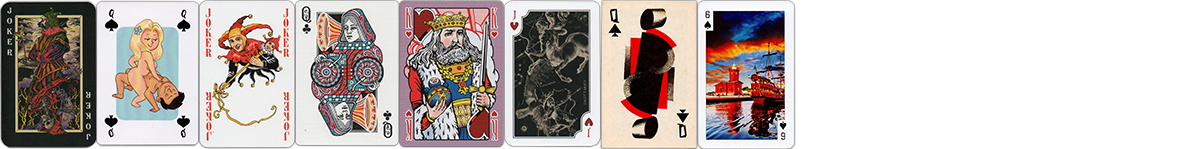
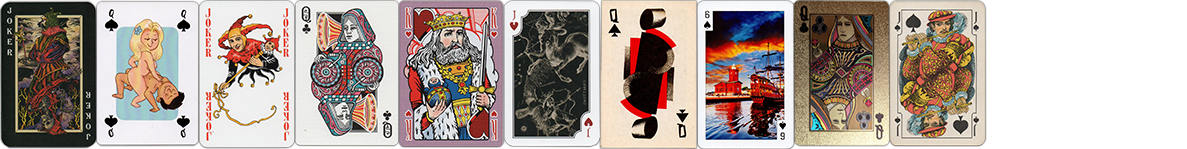
feat(Playing cards): add new cards and update links

diff --git a/src/app/components/item-pages/PlayingCardsPage/index.tsx b/src/app/components/item-pages/PlayingCardsPage/index.tsx
@@ -46,7 +46,7 @@ const PlayingCardsPage: React.FunctionComponent<ItemPageProps> = ({className, it
         <figure>
           <Container>
             <PlayingCard
-              href="https://playingarts.com/ru/special?utm_source=tema&utm_medium=banner&utm_campaign=300x300"
+              href="https://playingarts.com/special"
               title="Playing Arts: Special Edition"
               x={1}
               y={0}
@@ -74,7 +74,14 @@ const PlayingCardsPage: React.FunctionComponent<ItemPageProps> = ({className, it
               imgs={playingCards1Imgs}
             />
             <PlayingCard title="Greek cats" x={404} y={0} width={101} height={146} imgs={playingCards1Imgs} />
-            <PlayingCard title="Nude playing cards" x={506} y={0} width={101} height={146} imgs={playingCards1Imgs} />
+            <PlayingCard
+              title="Sweet heart - Nude playing cards"
+              x={506}
+              y={0}
+              width={101}
+              height={146}
+              imgs={playingCards1Imgs}
+            />
             <PlayingCard title="Lattjo" x={610} y={0} width={94} height={146} imgs={playingCards1Imgs} />
             <PlayingCard
               href="https://dama-pik.com.ua/cards/russian-motifs/belyy-palekh/"
@@ -124,7 +131,8 @@ const PlayingCardsPage: React.FunctionComponent<ItemPageProps> = ({className, it
               imgs={playingCards1Imgs}
             />
             <PlayingCard
-              title="Playing Cards Dollar"
+              title="One Hundred Dollars"
+              href="https://dama-pik.com.ua/cards/standard/one-hundred-dollars/"
               x={105}
               y={145}
               width={93}
@@ -150,17 +158,9 @@ const PlayingCardsPage: React.FunctionComponent<ItemPageProps> = ({className, it
               height={146}
               imgs={playingCards1Imgs}
             />
+            <PlayingCard title="Hidden Part" x={504} y={147} width={89} height={140} imgs={playingCards1Imgs} />
             <PlayingCard
-              href="https://www.behance.net/gallery/16822663/Hidden-part"
-              title="Hidden Part"
-              x={504}
-              y={147}
-              width={89}
-              height={140}
-              imgs={playingCards1Imgs}
-            />
-            <PlayingCard
-              href="https://www.artiphany.com/products/kitten-club"
+              href="https://www.wopc.co.uk/usa/inky-dinky/kitten-club"
               title="Kitten Club Playing Cards"
               x={593}
               y={147}
@@ -178,7 +178,7 @@ const PlayingCardsPage: React.FunctionComponent<ItemPageProps> = ({className, it
               imgs={playingCards1Imgs}
             />
             <PlayingCard
-              href="https://www.artiphany.com/products/mermaid-playing-cards"
+              href="https://www.wopc.co.uk/usa/inky-dinky/mermaid-queen"
               title="Mermaid Queen Playing Cards"
               x={791}
               y={148}
@@ -205,7 +205,7 @@ const PlayingCardsPage: React.FunctionComponent<ItemPageProps> = ({className, it
               imgs={playingCards1Imgs}
             />
             <PlayingCard
-              href="http://www.a.trionfi.eu/WWPCM/decks06/d04208/d04208.htm"
+              href="https://dama-pik.com.ua/cards/french-suit/karty-do-gry-/"
               title="Skat"
               x={1092}
               y={149}
@@ -485,8 +485,24 @@ const PlayingCardsPage: React.FunctionComponent<ItemPageProps> = ({className, it
               height={149}
               imgs={playingCards6Imgs}
             />
-            <PlayingCard title="Майа" x={94} y={0} width={96} height={150} imgs={playingCards6Imgs} />
-            <PlayingCard title="Рейнские" x={190} y={0} width={106} height={156} imgs={playingCards6Imgs} />
+            <PlayingCard
+              href="https://www.wopc.co.uk/russia/maya"
+              title="Майа"
+              x={94}
+              y={0}
+              width={96}
+              height={150}
+              imgs={playingCards6Imgs}
+            />
+            <PlayingCard
+              href="https://www.wopc.co.uk/poland/rhineland-pattern-by-kzwp"
+              title="Рейнские"
+              x={190}
+              y={0}
+              width={106}
+              height={156}
+              imgs={playingCards6Imgs}
+            />
             <PlayingCard
               title="Dubai"
               href="https://dama-pik.com.ua/cards/othercity/dubai+II/"
@@ -496,15 +512,7 @@ const PlayingCardsPage: React.FunctionComponent<ItemPageProps> = ({className, it
               height={146}
               imgs={playingCards6Imgs}
             />
-            <PlayingCard
-              href="https://wearmedicine.com/p/medicine-karty-do-gry-11788"
-              title="Kartу do gry Medicine"
-              x={391}
-              y={0}
-              width={96}
-              height={150}
-              imgs={playingCards6Imgs}
-            />
+            <PlayingCard title="Kartу do gry Medicine" x={391} y={0} width={96} height={150} imgs={playingCards6Imgs} />
             <PlayingCard
               title="Karty do Gry No.410"
               href="https://www.wopc.co.uk/poland/gaber"
@@ -563,15 +571,7 @@ const PlayingCardsPage: React.FunctionComponent<ItemPageProps> = ({className, it
 
             {/* row #7 */}
             <PlayingCard title="Thingvellir" x={0} y={0} width={94} height={147} imgs={playingCards7Imgs} />
-            <PlayingCard
-              href="https://wearmedicine.com/p/medicine-karty-do-gry-16905"
-              title="Kartу do gry Medicine"
-              x={94}
-              y={0}
-              width={96}
-              height={148}
-              imgs={playingCards7Imgs}
-            />
+            <PlayingCard title="Kartу do gry Medicine" x={94} y={0} width={96} height={148} imgs={playingCards7Imgs} />
             <PlayingCard
               href="https://dama-pik.com.ua/cards/french-suit/luxury/"
               title="Luxury"
@@ -607,7 +607,15 @@ const PlayingCardsPage: React.FunctionComponent<ItemPageProps> = ({className, it
               height={147}
               imgs={playingCards7Imgs}
             />
-            <PlayingCard title="Zamki w Polsce" x={575} y={0} width={91} height={142} imgs={playingCards7Imgs} />
+            <PlayingCard
+              href="https://dama-pik.com.ua/cards/poland/zamki-w-polsce/"
+              title="Zamki w Polsce"
+              x={575}
+              y={0}
+              width={91}
+              height={142}
+              imgs={playingCards7Imgs}
+            />
             <PlayingCard
               href="https://dama-pik.com.ua/cards/ethnography/polska-sztuka-ludowa/"
               title="Polska Sztuka Ludowa"
@@ -665,7 +673,15 @@ const PlayingCardsPage: React.FunctionComponent<ItemPageProps> = ({className, it
               height={147}
               imgs={playingCards8Imgs}
             />
-            <PlayingCard title="Królewskie" x={197} y={0} width={95} height={147} imgs={playingCards8Imgs} />
+            <PlayingCard
+              href="https://www.wopc.co.uk/poland/kzwp-kr%C3%B3lewskie"
+              title="Królewskie"
+              x={197}
+              y={0}
+              width={95}
+              height={147}
+              imgs={playingCards8Imgs}
+            />
             <PlayingCard
               href="https://www.kickstarter.com/projects/sunishchabba/bosch-playing-cards-0"
               title="Bosch"
@@ -721,7 +737,7 @@ const PlayingCardsPage: React.FunctionComponent<ItemPageProps> = ({className, it
               imgs={playingCards8Imgs}
             />
             <PlayingCard
-              href="https://flyingtiger.com/products/playing-cards-3033003"
+              href="https://www.wopc.co.uk/denmark/flying-tiger"
               title="Playing cards"
               x={889}
               y={0}
@@ -741,26 +757,10 @@ const PlayingCardsPage: React.FunctionComponent<ItemPageProps> = ({className, it
             />
 
             {/* row #9 */}
+            <PlayingCard title="Medicine" x={0} y={0} width={98} height={149} imgs={playingCards9Imgs} />
+            <PlayingCard title="Kamasutra Comic II" x={99} y={0} width={101} height={149} imgs={playingCards9Imgs} />
             <PlayingCard
-              href="https://wearmedicine.com/p/karty-do-gry-z-grafikami-kolor-multicolor-1020329"
-              title="Medicine"
-              x={0}
-              y={0}
-              width={98}
-              height={149}
-              imgs={playingCards9Imgs}
-            />
-            <PlayingCard
-              href="https://shop.ootb.de/en/love/erotic-items-/playing-cards-kamasutra-comic-ii-61-2748"
-              title="Kamasutra Comic II"
-              x={99}
-              y={0}
-              width={101}
-              height={149}
-              imgs={playingCards9Imgs}
-            />
-            <PlayingCard
-              href="https://www.piatnik.com/en/games/playing-cards/design-and-gift/picasso"
+              href="https://dama-pik.com.ua/cards/international-style/picasso-2235/"
               title="Picasso"
               x={200}
               y={0}
@@ -787,7 +787,6 @@ const PlayingCardsPage: React.FunctionComponent<ItemPageProps> = ({className, it
               imgs={playingCards9Imgs}
             />
             <PlayingCard
-              href="https://wearmedicine.com/p/karty-do-gry-z-grafikami-z-kolekcji-zodiak-1026784"
               title="Karty do gry z grafikami z kolekcji Zodiak"
               x={504}
               y={0}
@@ -804,7 +803,17 @@ const PlayingCardsPage: React.FunctionComponent<ItemPageProps> = ({className, it
               height={147}
               imgs={playingCards9Imgs}
             />
-            <PlayingCard title="Darłówko i okolice" x={698} y={0} width={98} height={147} imgs={playingCards9Imgs} />
+            <PlayingCard title="Darłówko i okolice" x={698} y={0} width={96} height={149} imgs={playingCards9Imgs} />
+            <PlayingCard title="Nice" x={795} y={0} width={95} height={147} imgs={playingCards9Imgs} />
+            <PlayingCard
+              href="https://dama-pik.com.ua/cards/classic/kasztelanskie/"
+              title="Mexico 86 (Kasztelanskie)"
+              x={890}
+              y={0}
+              width={96}
+              height={147}
+              imgs={playingCards9Imgs}
+            />
 
             {/* unusual */}
             <PlayingCard title="Pokemon" x={588} y={0} width={58} height={91} imgs={playingCardsXImgs} />
@@ -846,7 +855,15 @@ const PlayingCardsPage: React.FunctionComponent<ItemPageProps> = ({className, it
             />
             <PlayingCard title="Playing cards" x={208} y={0} width={150} height={171} imgs={playingCardsXImgs} />
             <PlayingCard title="Царик Филипп №1" x={359} y={1} width={119} height={169} imgs={playingCardsXImgs} />
-            <PlayingCard title="Schafkopf Tarock" x={318} y={171} width={92} height={167} imgs={playingCardsXImgs} />
+            <PlayingCard
+              href="https://www.wopc.co.uk/germany/ass/bavarian-single-ended"
+              title="Schafkopf Tarock"
+              x={318}
+              y={171}
+              width={92}
+              height={167}
+              imgs={playingCardsXImgs}
+            />
             <PlayingCard title="Tarot De Luxe" x={0} y={312} width={102} height={183} imgs={playingCardsXImgs} />
             <PlayingCard title="Китайские из Temu" x={103} y={312} width={63} height={198} imgs={playingCardsXImgs} />
             <PlayingCard

diff --git a/src/app/data/translations/ru.ts b/src/app/data/translations/ru.ts
@@ -604,9 +604,9 @@ export const ru: TranslatedStrings = {
     data: {
       p1: 'Коллекционирую с детства.',
       p2: 'Не ставлю себе задачу собрать очень много и всё подряд, поэтому коллекция не очень \
-большая и насчитывает на данный момент более 100 колод. Собираю именно те, \
+большая и насчитывает на данный момент около 120 колод. Собираю именно те, \
 которые понравились.',
-      imgTitle: 'По одной карте из каждой колоды (кликабельно). Март 2025',
+      imgTitle: 'По одной карте из каждой колоды (кликабельно). Ноябрь 2025',
     },
   },
   Poland: {

diff --git a/src/app/data/translations/en.ts b/src/app/data/translations/en.ts
@@ -532,9 +532,9 @@ export const en: TranslatedStrings = {
     data: {
       p1: 'Collecting since my childhood.',
       p2: 'There is no purpose to gather everything from everywhere, \
-so the collection is not so big and contains more than 100 decks today. \
+so the collection is not so big and contains around 120 decks today. \
 Collecting those which I really like.',
-      imgTitle: 'One card from each deck (clickable). March 2025',
+      imgTitle: 'One card from each deck (clickable). November 2025',
     },
   },
   Poland: {
